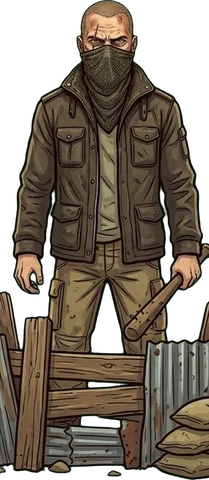
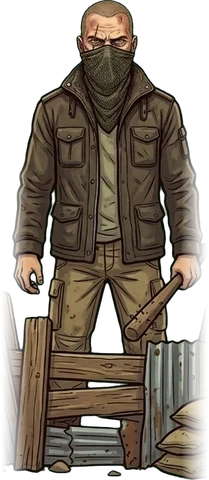
Zombies : côtés coupés estompés en attendant de nouvelles images, prompt Gemini

diff --git a/site/sw.js b/site/sw.js
@@ -4,7 +4,7 @@
    IMPORTANT : à chaque mise à jour du jeu, changer VERSION (sinon les
    téléphones garderaient l'ancienne copie).
    ===================================================================== */
-var VERSION = "survival-20261115-1551";
+var VERSION = "survival-20261115-1556";
 var FICHIERS = [
   "./",
   "index.html",

diff --git a/CLAUDE.md b/CLAUDE.md
@@ -479,6 +479,7 @@ Traduction, relecture (5) (2026-11-15) : messages de l'atelier, de la cuisine, d
 Rex et réglage Adulte (2026-11-15, demandes de Fabien) : dans la fiche de Rex, « Manger Rex » n'apparaît plus qu'en cas de famine (`famine()`), pour garder la surprise (le guide n'en parle pas). Réglage « Adulte » : déjà activé par défaut, mais remis à « activé » une fois pour tout le monde (marque localStorage `survival_sensible_v2`, il avait été coupé pendant les tests) ; chacun peut le couper ensuite
 Réparer depuis l'emplacement (2026-11-15, demande de Fabien) : dans la fenêtre d'un emplacement (`openSlot`), une arme abîmée en main a un bloc « 🔧 Réparer · solidité a → b » (matériaux de `REPARATION` + `boutonTravail`, act `slotrep` → `reparer(uid)`, message `msgSlot`) à côté de « Ranger ». Seules les armes se réparent (comme dans l'onglet Réparer) : torche et canne s'usent sans réparation. En anglais, `MARCHE.nom` est remplacé par « Marco the junk dealer » dans lang-en.js (son nom est glissé dans plusieurs phrases)
 Barricades de la réserve refaites (2026-11-15, retour de Fabien : planches coupées) : une seule découpe par niveau (`images/barricades/reserve-1|2|3.webp`, 415 × 323, zone 609, 24, 1024, 347) qui suit la forme des planches (différence avec la pièce, intérieur bouché, bord adouci) au lieu de deux rectangles ; à gauche elle s'arrête au-dessus des bocaux (y 238). Les anciens fichiers `reserve-N-1/2.webp` sont retirés
+Zombies coupés (2026-11-15, retour de Fabien) : sur les planches Gemini d'origine, Costaud, Gonflé, Rampant, Défenseur, Soldat, Coureur et Hurleur touchent le bord de leur case (bras, nuage, mains, barricade coupés net). En attendant de nouvelles images, leurs côtés coupés sont estompés (fondu de 13 % de la largeur, 22 % pour le nuage du Gonflé ; originaux dans `images/sources/zombies-avant-fondu/`). Prompt pour les redessiner avec de la marge : `images/sources/prompts-zombies-marges-2026-11-15.md`
 Décor des assauts : la cour fortifiée (`piece-bastion-cour.webp`) sert de fond au combat pendant un assaut (ui.js, `openCombat`).
 Bilan de difficulté (2026-11-10, simulation après tous les ajouts) : Malin vit 85 jours (médiane, 10 % ≤ 68, 90 % ≤ 104, max 122), 96 % atteignent le jour 60, 79 % le jour 75, seulement 16 % le jour 100 ; Naïf 10 jours (1re mort au jour 5). Causes de mort de Malin : attaques de nuit, puis soif, puis faim. Assauts (2 membres, robot Auto, 200 essais) : bastion faible = 100 % de victoires ; remparts 5 + armurerie 3 + cible au jour 200 = 0 % (7 % avec gilets, casques, boucliers et camion au maximum) : courbe trop raide, à lisser. Jour d'accès aux clans : 100 jugé trop long.
 Réglages du 2026-11-10 (choix de Fabien : 30 jours) :

diff --git a/images/sources/prompts-zombies-marges-2026-11-15.md b/images/sources/prompts-zombies-marges-2026-11-15.md
@@ -1,0 +1,24 @@
+# Zombies à redessiner avec de la marge (2026-11-15)
+
+Sur les planches d'origine, Gemini a dessiné chaque zombie dans une case trop étroite : les bras du Costaud, le nuage du Gonflé, les mains du Rampant, la barricade du Défenseur, le bras du Soldat, le bras du Coureur et les ondes du Hurleur touchent le bord de la case et sont coupés.
+En attendant, le jeu estompe les côtés coupés (originaux gardés dans `images/sources/zombies-avant-fondu/`).
+
+Joindre à Gemini la planche de référence `images/sources/reference-zombies.jpg` (ou les planches `zombies-pied-1-gemini.jpg` / `zombies-pied-2-gemini.jpg`).
+
+## Prompt (un zombie par image, à refaire pour chacun)
+
+> Redraw ONLY the [ZOMBIE] from the attached reference sheet, exactly the same character, same pose, same cartoon style (thick dark outlines, flat colors with soft shading), full body from head to feet.
+> Put it alone on a plain, flat, pure green background (#00FF00), with NO frame, NO border, NO panel lines and NO ground shadow.
+> Leave a wide empty green margin all around: at least 15 % of the image on the left, right, top and bottom. Nothing must touch the edges of the image (arms, hands, smoke, weapon, objects).
+> Portrait format, about 2:3.
+
+Remplacer [ZOMBIE] par :
+1. the big muscular zombie in blue overalls (Costaud)
+2. the bloated zombie surrounded by yellow toxic smoke, with the whole smoke cloud fully visible (Gonflé)
+3. the crawling zombie, both arms and clawed hands fully visible, landscape format 3:2 instead of portrait (Rampant)
+4. the masked raider with the club, standing behind his small wooden barricade, the whole barricade and sandbags visible, landscape 4:3 (Défenseur)
+5. the soldier zombie with the rifle, rifle fully visible (Soldat)
+6. the running zombie in the red tracksuit (Coureur)
+7. the screaming zombie in the grey hoodie, with the sound waves (Hurleur)
+
+Fichiers attendus : `images/zombies/costaud.webp`, `gonfle.webp`, `rampant.webp`, `defenseur.webp`, `soldat.webp`, `coureur.webp`, `hurleur.webp` (Claude détoure le fond vert).
